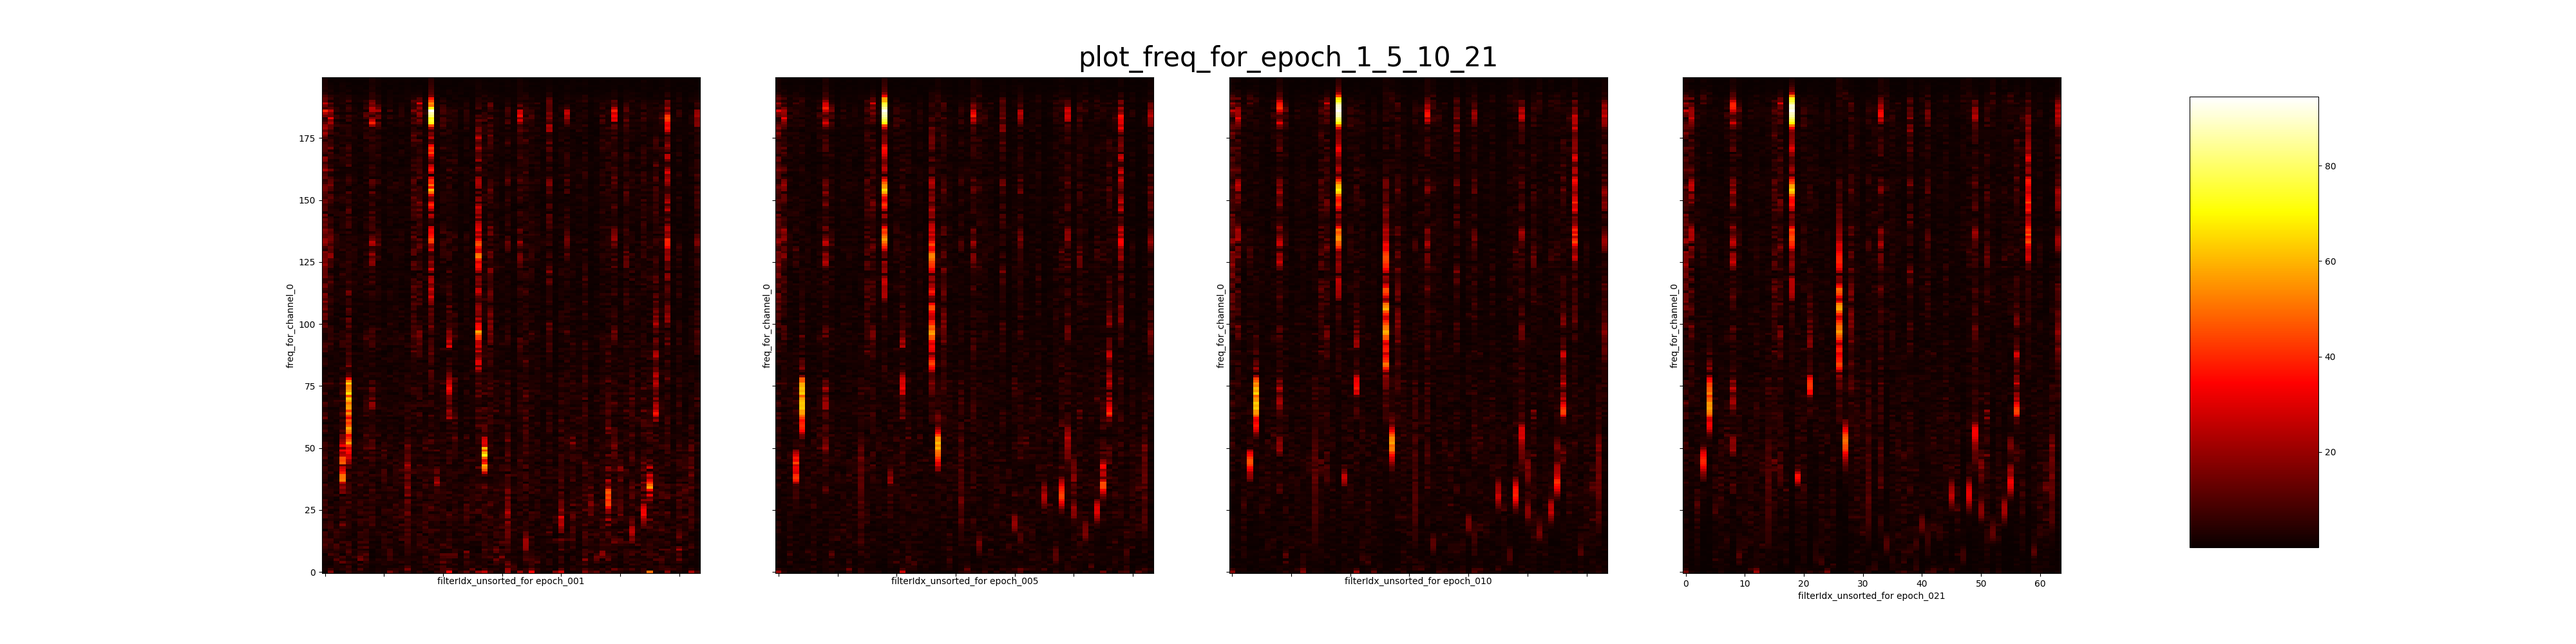
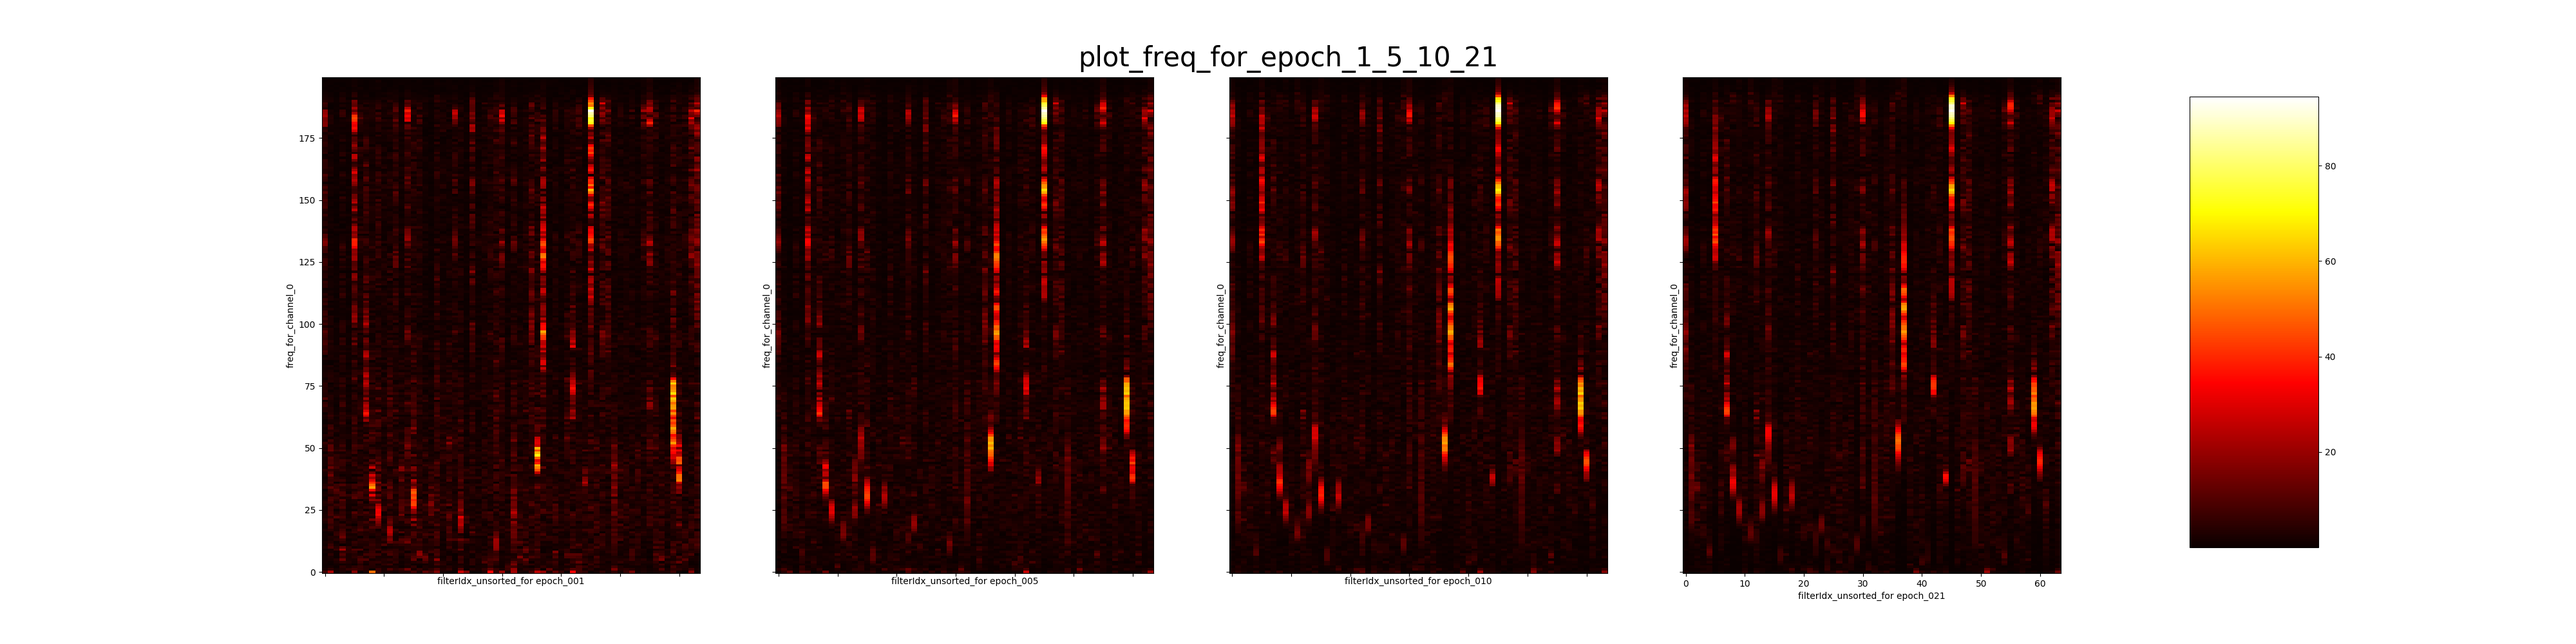
up

Changed region(s): [[0.125, 0.124, 0.625, 0.899], [0.6562, 0.124, 0.8125, 0.899]]

diff --git a/returnnTfNetworkLayerPlotter.py b/returnnTfNetworkLayerPlotter.py
@@ -30,7 +30,7 @@ class ReturnnLayerPlotter(object):
         for i in self.epochRangeToPlotPerColumn:
             epochWeight = np.load(os.path.join(self.pathToWeights, self.nameOfLayerPath + '_epoch' + str(i) + '_MMF.npy'))
             if(self.reverse):
-                epochWeight = np.flip(epochWeight, axis=0)
+                epochWeight = np.flip(epochWeight, axis=1)
             weights.append(np.squeeze(epochWeight))
         return weights
 
